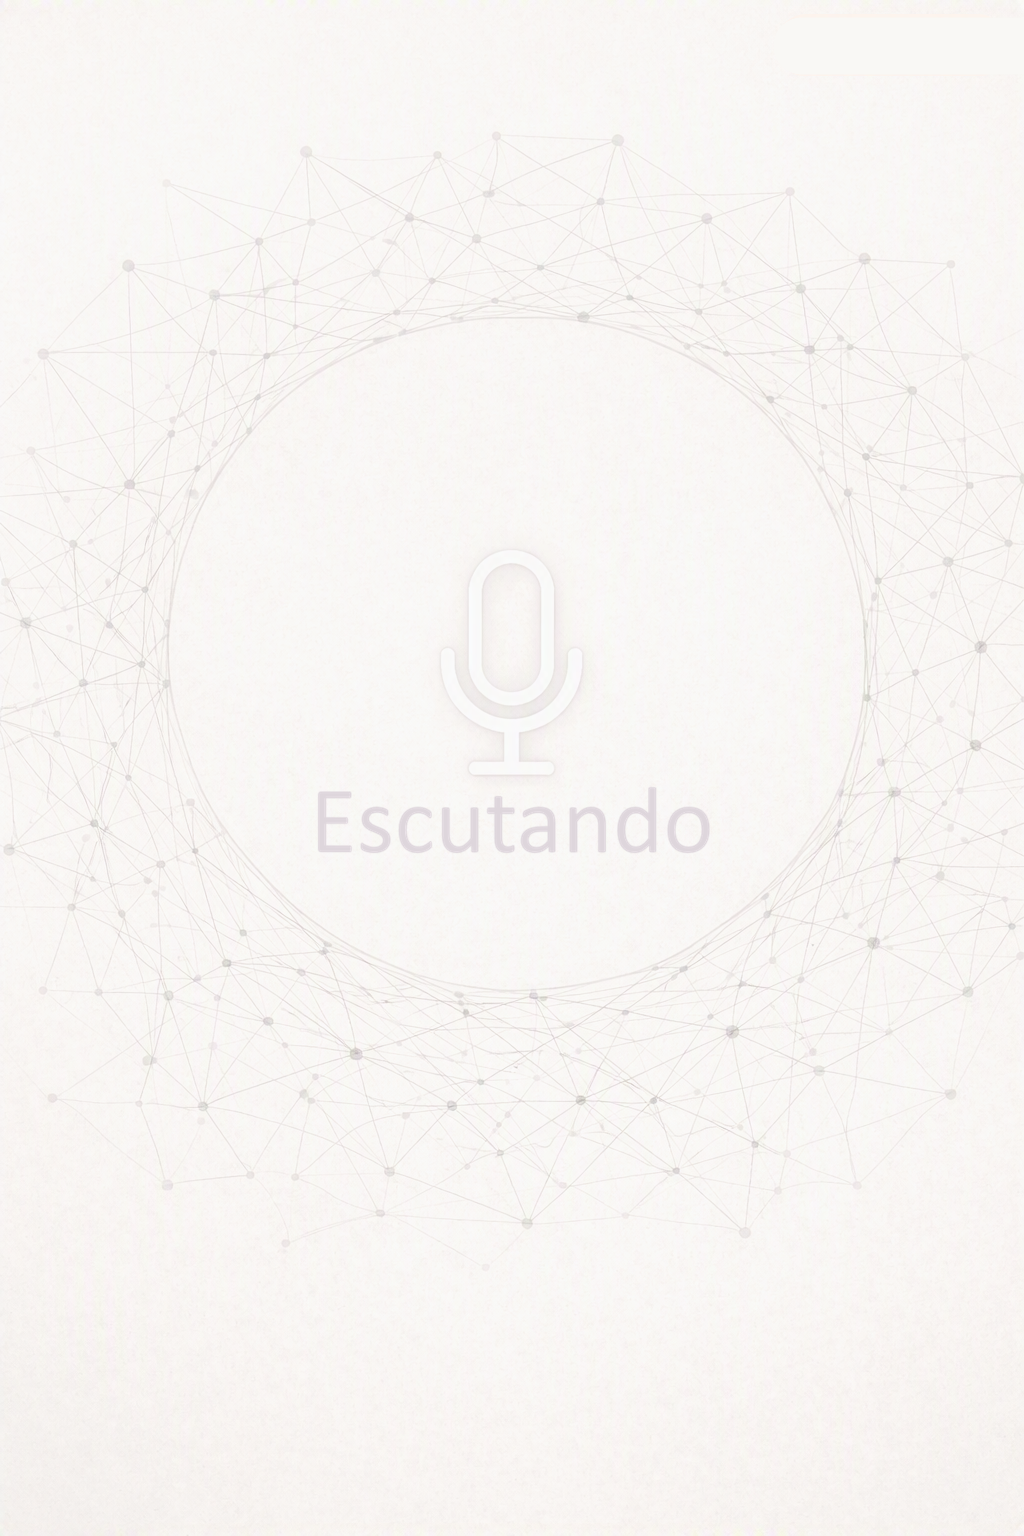
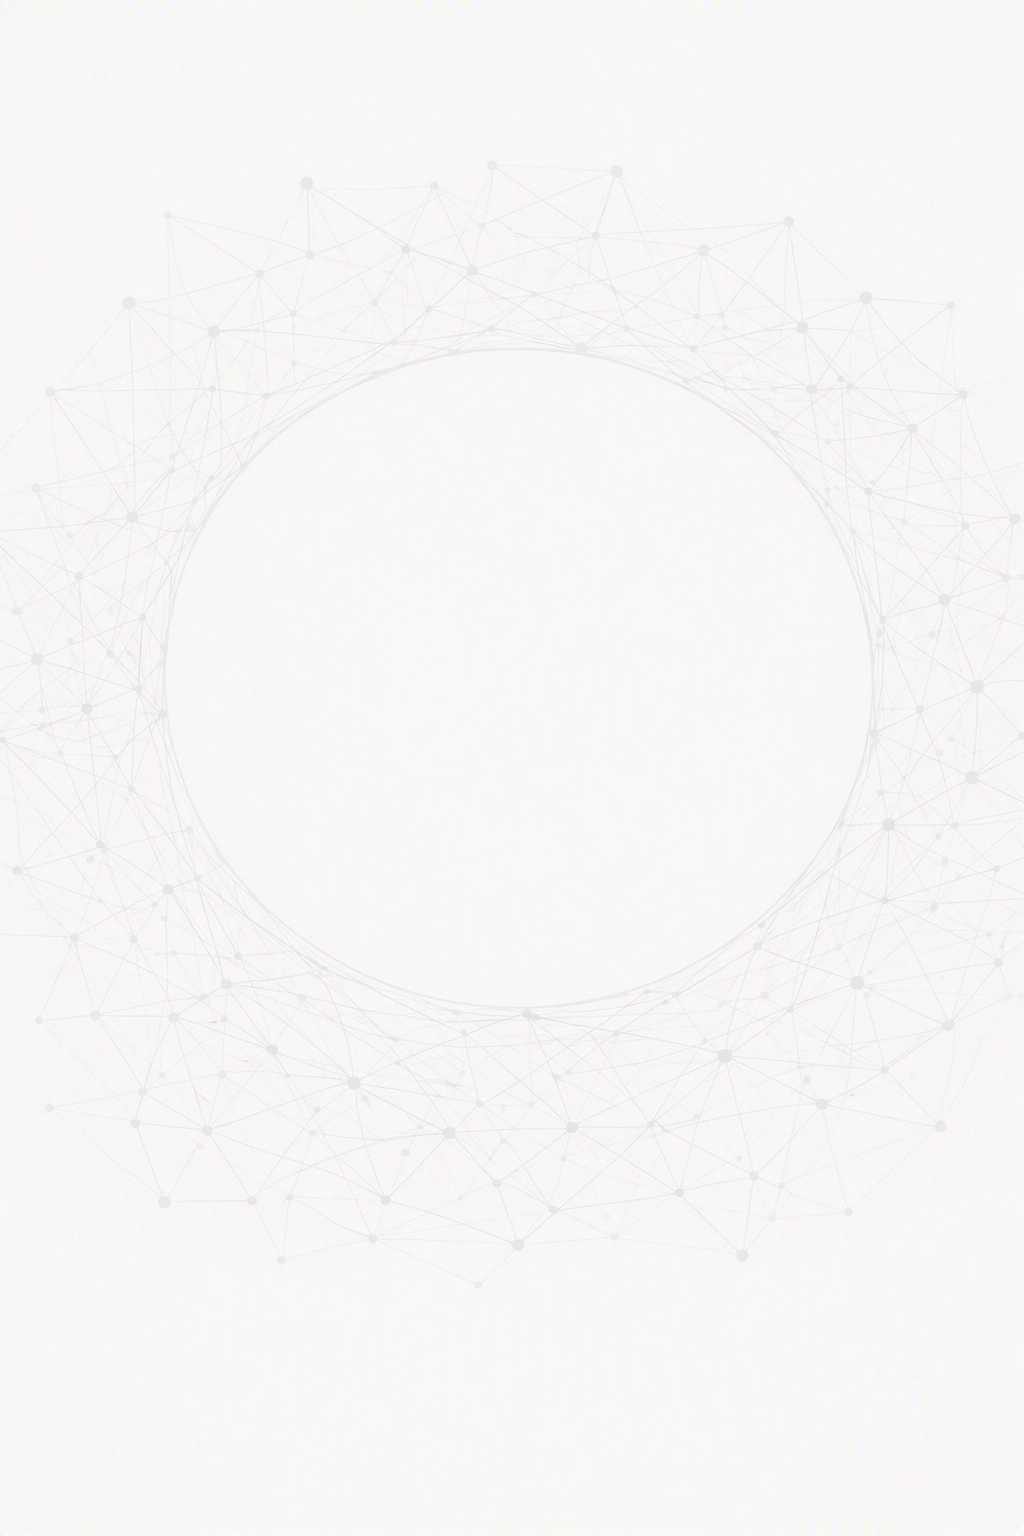
Ajusta cores dos cards, adiciona função para separar por evento, adiciona tag para arquivados e excluidos, ajuste tela de fundo e titulos

Changed region(s): [[0.3125, 0.5, 0.6875, 0.5625]]

diff --git a/front/src/utilidade/AgendaList.tsx b/front/src/utilidade/AgendaList.tsx
@@ -4,9 +4,16 @@ import { AgendaItem } from './AgendaForm';
 type AgendaListProps = {
     agendas: AgendaItem[];
     onDetails: (agenda: AgendaItem) => void;
+    compact?: boolean;
+    status?: 'ativa' | 'arquivo' | 'excluidos';
 };
 
-export function AgendaList({ agendas, onDetails }: AgendaListProps) {
+export function AgendaList({
+    agendas,
+    onDetails,
+    compact = false,
+    status = 'ativa',
+}: AgendaListProps) {
     const ordemPrioridade ={
         urgente: 0,
         importante: 1,
@@ -27,16 +34,25 @@ export function AgendaList({ agendas, onDetails }: AgendaListProps) {
                     : '#559492';
 
             return (
-                <View key={item.id} style={styles.card}>
+                <View
+                    key={item.id}
+                    style={[
+                        styles.card,
+                        compact && styles.compactCard,
+                        status === 'arquivo' && styles.archivedCard,
+                        status === 'excluidos' && styles.deletedCard,
+                    ]}
+                >
                     <View style={[styles.priorityStripe, { backgroundColor: color }]} />
-                    <View style={styles.details}>
-                        <Text style={styles.title}>{item.titulo}</Text>
+                    <View style={[styles.details, compact && styles.compactDetails]}>
+                        <Text style={[styles.title, compact && styles.compactTitle]}>{item.titulo}</Text>
                         <Text style={styles.date}>Data de Início: {item.inicio}</Text>
                         <Text style={styles.date}>Data Final: <Text style={styles.dateValue}>{item.fim}</Text></Text>
                     </View>
                     <Pressable
                         style={({ pressed }) => [
                             styles.detailsButton,
+                            compact && styles.compactDetailsButton,
                             pressed && styles.detailsButtonPressed,
                         ]}
                         onPress={() => onDetails(item)}
@@ -56,7 +72,7 @@ const styles = StyleSheet.create({
         paddingTop: 16,
     },
     card: {
-        backgroundColor: '#EEF0F2',
+        backgroundColor: '#FFFFFF',
         borderColor: 'rgba(39, 35, 31, 0.10)',
         borderRadius: 16,
         borderWidth: 1,
@@ -73,6 +89,17 @@ const styles = StyleSheet.create({
         shadowOpacity: 0.10,
         shadowRadius: 5,
     },
+    compactCard: {
+        minHeight: 68,
+    },
+    archivedCard: {
+        backgroundColor: '#EEF6FC',
+        borderColor: '#C7DCEB',
+    },
+    deletedCard: {
+        backgroundColor: '#F1F3F5',
+        borderColor: '#D5D9DE',
+    },
     priorityStripe: {
         width: 6,
     },
@@ -82,11 +109,19 @@ const styles = StyleSheet.create({
         paddingHorizontal: 14,
         paddingVertical: 13,
     },
+    compactDetails: {
+        paddingHorizontal: 10,
+        paddingVertical: 8,
+    },
     title: {
         color: '#191919',
         fontSize: 15,
         fontWeight: '700',
         marginBottom: 7,
+    },
+    compactTitle: {
+        fontSize: 13,
+        marginBottom: 3,
     },
     date: {
         color: '#6B6B6B',
@@ -108,6 +143,11 @@ const styles = StyleSheet.create({
         marginRight: 12,
         minHeight: 38,
         paddingHorizontal: 11,
+    },
+    compactDetailsButton: {
+        minHeight: 32,
+        marginRight: 8,
+        paddingHorizontal: 8,
     },
     detailsButtonText: {
         color: '#3E444B',

diff --git a/front/src/screens/AgendaDetalheScreen.tsx b/front/src/screens/AgendaDetalheScreen.tsx
@@ -22,17 +22,33 @@ export function AgendaDetalheScreen({
   onExcluir,
   onRestaurar,
 }: AgendaDetalheScreenProps) {
+  const status = modo === 'arquivo'
+  ? {
+      label: 'Arquivada',
+      style: styles.statusUnknown,
+    }
+  : modo === 'excluidos'
+    ? {
+        label: 'Excluída',
+        style: styles.statusLate,
+      }
+    : getStatusPrazo(agenda.fim);
+
+    /* define cor do card de acordo com o status */
+  const cardStatusStyle = modo === 'arquivo'
+    ? styles.containerArchived
+    : modo === 'excluidos'
+      ? styles.containerDeleted
+      : null;
+
   return (
     <ScreenBackground>
-      <MenuBar onBack={onBack} title="Detalhes" />
+      <MenuBar onBack={onBack} title="Detalhes da Tarefa" />
 
-      <View style={styles.container}>
+      <View style={[styles.container, cardStatusStyle]}>
         <Text style={styles.title}>{agenda.titulo}</Text>
-        <Text style={[
-          styles.status,
-          getStatusPrazo(agenda.fim).style,
-        ]}>
-          {getStatusPrazo(agenda.fim).label}
+        <Text style={[styles.status, status.style]}>
+          {status.label}
         </Text>
         <Text style={styles.label}>Data de início</Text>
         <Text style={styles.value}>{agenda.inicio || 'Não informada'}</Text>
@@ -129,6 +145,14 @@ const styles = StyleSheet.create({
     },
     shadowOpacity: 0.10,
     shadowRadius: 6,
+  },
+  containerArchived: {
+    backgroundColor: '#EEF6FC',
+    borderColor: '#C7DCEB',
+  },
+  containerDeleted: {
+    backgroundColor: '#F1F3F5',
+    borderColor: '#D5D9DE',
   },
   title: {
     color: '#191919',

diff --git a/front/src/screens/ObservarScreen.tsx b/front/src/screens/ObservarScreen.tsx
@@ -29,7 +29,7 @@ export function ObservarScreen({ onBack, token }: ObservarScreenProps) {
         behavior={Platform.OS === 'ios' ? 'padding' : 'height'}
         style={screenStyles.keyboardContainer}
       >
-        <MenuBar onBack={onBack} />
+        <MenuBar onBack={onBack} title="Escrever" />
 
         <View style={screenStyles.areaMensagens}>
           <ChatMensagens

diff --git a/front/src/screens/AgendaDetalhesScrean.tsx b/front/src/screens/AgendaDetalhesScrean.tsx
@@ -25,6 +25,7 @@ export function AgendaDetalhesScreen
             ]
         );
     }
+    
 
         return (
         <ScreenBackground>
@@ -84,7 +85,7 @@ export function AgendaDetalhesScreen
 
 const styles = StyleSheet.create({
     container: {
-        backgroundColor: '#D9D9D9',
+        backgroundColor: '#f7f7f7',
         marginTop: 16,
         padding: 18,
     },

diff --git a/back/src/app.ts b/back/src/app.ts
@@ -60,7 +60,7 @@ cron.schedule('0 * * * *', async () => {
   const agora = new Date()
 
   const limiteDosProximos15Dias = new Date(agora)
-  limiteDosProximos15Dias.setDate(limiteDosProximos15Dias.getDate() + 15)
+  limiteDosProximos15Dias.setDate(limiteDosProximos15Dias.getDate() + 7)
 
   try {
     const tarefasVencendo = await prisma.tarefa.findMany({

diff --git a/front/src/screens/ExcluidosScreen.tsx b/front/src/screens/ExcluidosScreen.tsx
@@ -85,6 +85,8 @@ export function ExcluidosScreen({ onBack, token }: ExcluidosScreenProps) {
       <MenuBar onBack={onBack} title="Itens Excluídos" />
       <AgendaList
         agendas={agendas}
+        compact
+        status="excluidos"
         onDetails={(agenda) => setAgendaSelecionada(agenda)}
       />
     </ScreenBackground>

diff --git a/front/src/screens/OuvirScreen.tsx b/front/src/screens/OuvirScreen.tsx
@@ -109,7 +109,7 @@ export function OuvirScreen({ onBack, token }: OuvirScreenProps) {
 
   return (
     <ScreenBackground source={require("../img/FundoEscutando.png")}>
-      <MenuBar onBack={onBack} />
+      <MenuBar onBack={onBack} title="Falar" />
 
       <View style={styles.conversa}>
         <ChatMensagens

diff --git a/front/src/screens/ArquivoScreen.tsx b/front/src/screens/ArquivoScreen.tsx
@@ -131,6 +131,8 @@ export function ArquivoScreen({
 
             <AgendaList
                 agendas={agendas}
+                compact
+                status="arquivo"
                 onDetails={(agenda) => {
                     setAgendaSelecionada(agenda);
                 }}
